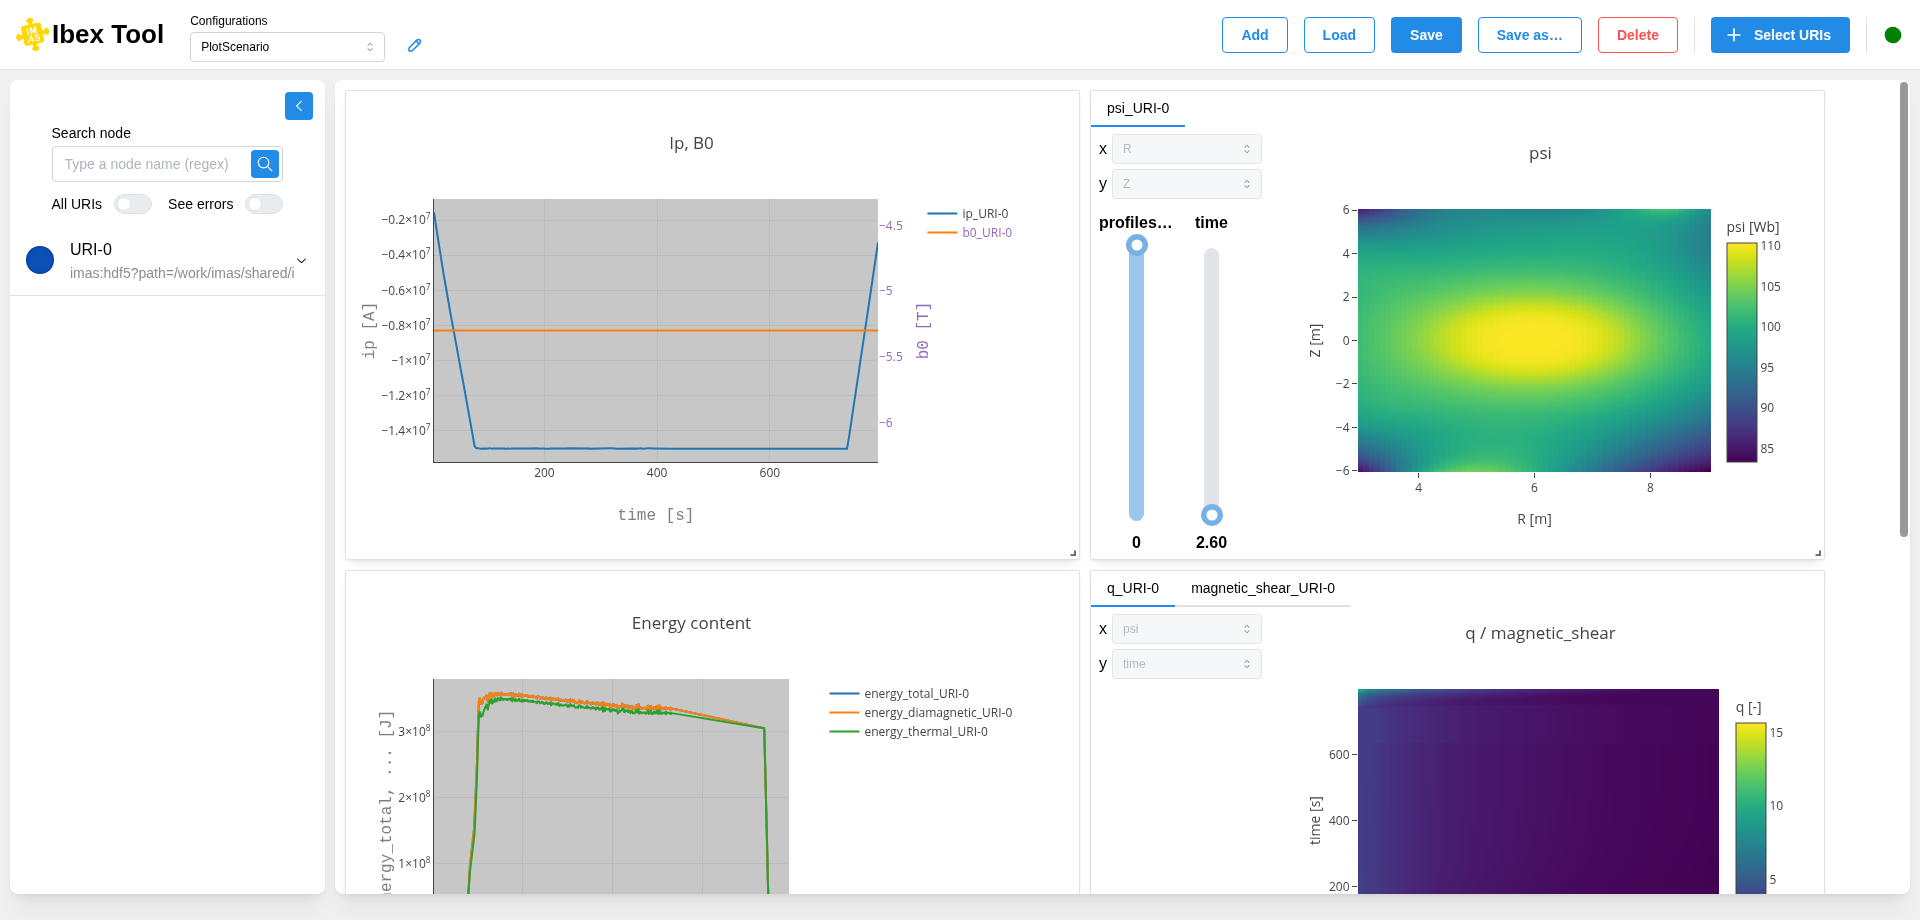
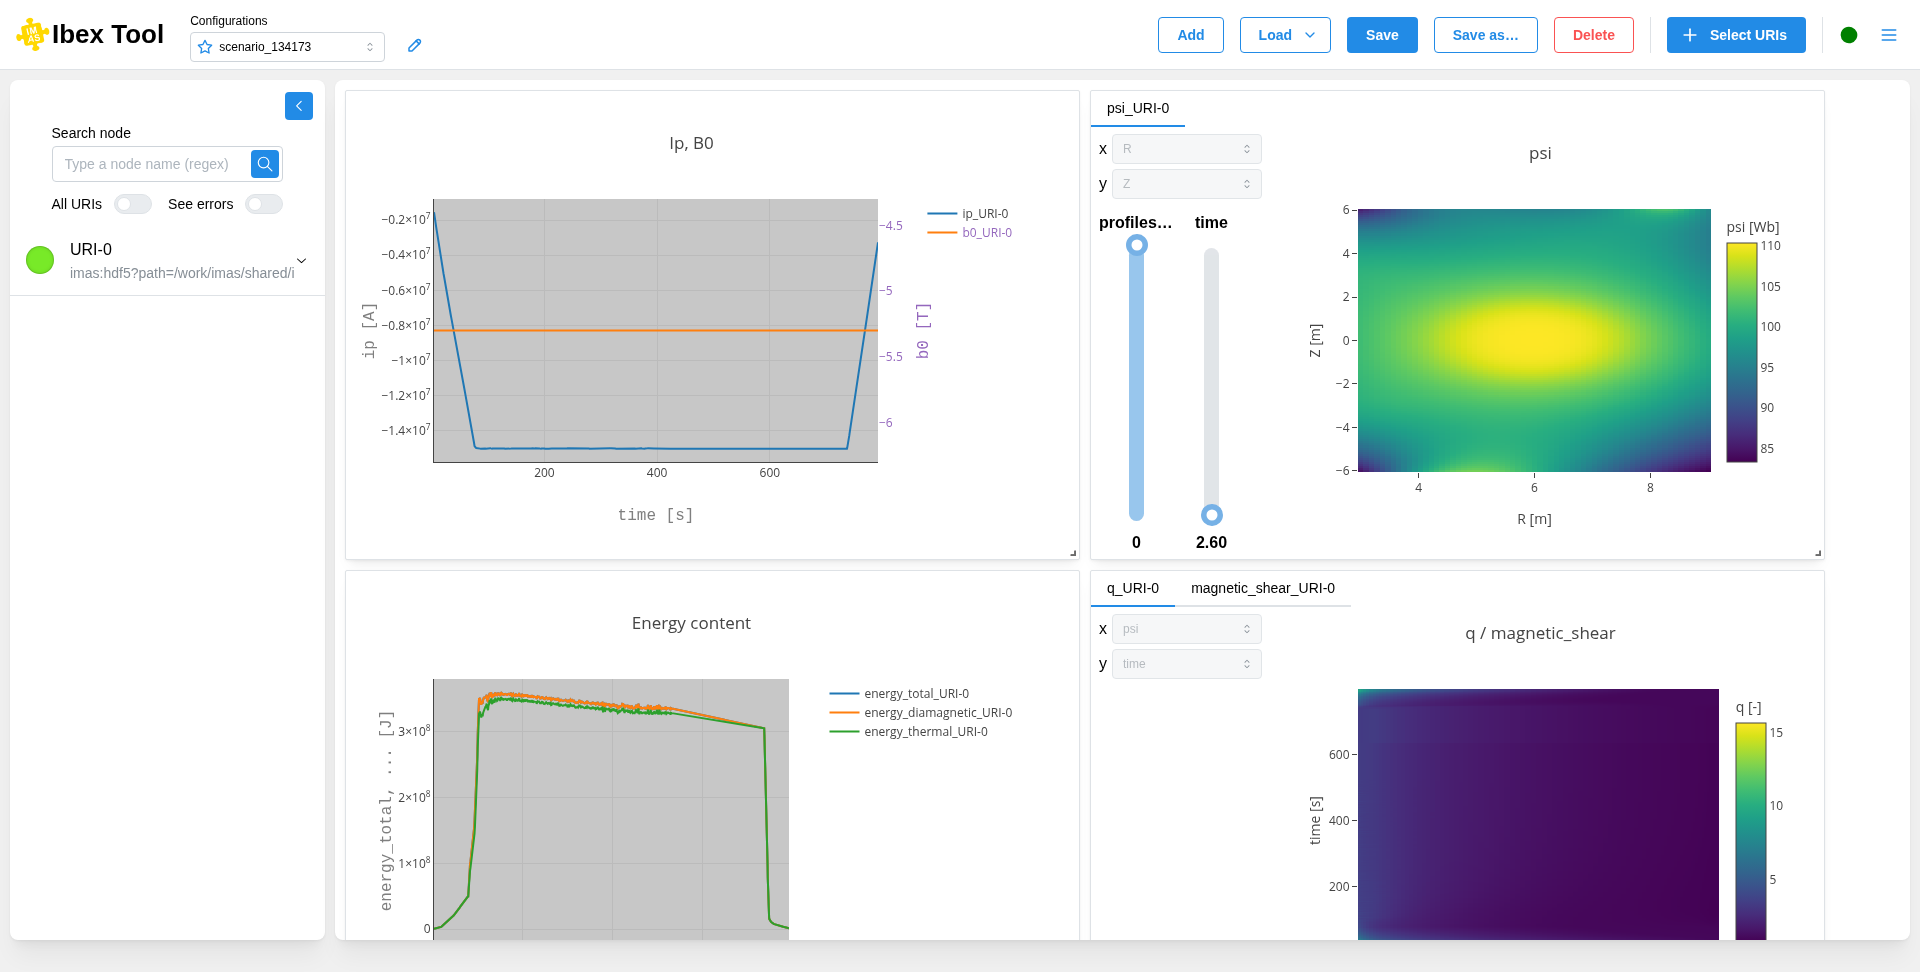
docs: retake the screenshots for the header menu
The native menu bar is gone and the preferences now sit in the header
menu (☰). Retake the screenshots from the app: the ones still showing
the menu bar (template folders, load, save as) and all the full-window
ones, whose header lacked the ☰ button and the Load menu arrow. Load
now shows its menu listing the launch directory, and a new image shows
the header menu open in the Preferences page.

Assisted-by: Claude/opus-5

diff --git a/docs/source/users_manual/features/load_configuration.rst b/docs/source/users_manual/features/load_configuration.rst
@@ -7,7 +7,7 @@ Load configuration
 To load an existing local configuration, you can use the “Load” menu. It lists the “.json” files of the directory IBEX was started from, so that one click loads one of them; “Browse…” opens the file explorer to find a file anywhere else. This configuration reflects the state of your application at the time of the last save.
 
 .. image:: images/load_configuration.png
-   :alt: Modal to load a configuration
+   :alt: Load menu listing the configuration files of the launch directory
    :align: center
 
 Make sure to save your configuration by clicking the “Save” button so that you can load it later and pick up right where you left off. 

diff --git a/AGENTS.md b/AGENTS.md
@@ -219,6 +219,12 @@ why they are accepted.
   on a double-click.
 - Tree labels are deliberately non-selectable (issue #135) — don't reintroduce
   `userSelect: 'text'` there.
+- A change to what the user sees (header, menus, modals, buttons, tree, plots)
+  also updates the screenshots that show it in
+  `docs/source/users_manual/features/images/`, and the text of the pages using
+  them (`grep -rn "image::" docs/source`). Take them from the app started with
+  `npm run start:e2e`; native dialogs, which E2E mode stubs, need the app in
+  normal mode and a capture of the screen.
 
 ## Repo-wide conventions
 

diff --git a/docs/source/users_manual/features/preferences_menu.rst b/docs/source/users_manual/features/preferences_menu.rst
@@ -10,6 +10,10 @@ The menu button at the right end of the header (☰) opens the user preferences 
 - **Documentation** and **Report an issue** open this documentation and the IBEX GitHub issues in your web browser;
 - the last line shows the IBEX version.
 
+.. image:: images/app_menu.png
+   :alt: Menu opened from the button at the right end of the header
+   :align: center
+
 IBEX has no menu bar. Two keyboard shortcuts are still available: :kbd:`F11` toggles full screen and :kbd:`Ctrl+Shift+I` opens the developer tools.
 
 .. image:: images/template_preferences.png

diff --git a/docs/source/users_manual/features/first_window.rst b/docs/source/users_manual/features/first_window.rst
@@ -16,7 +16,7 @@ The buttons at the top right, before the separator, allow you to manage your con
 
 To the right of the separator, you can add new URIs (see :doc:`Add uri <add_uri>`).
 
-On the far right, a dot indicates the server status.
+On the far right, a dot indicates the server status, and the menu button (☰) opens the :doc:`Preferences <preferences_menu>` and help.
 
 .. tip::
 
